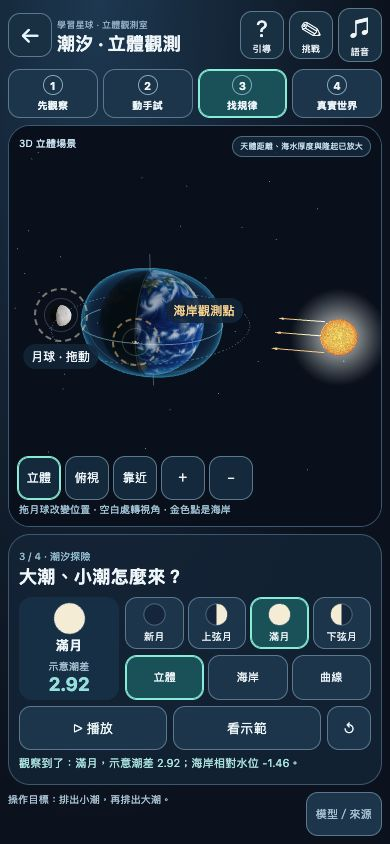
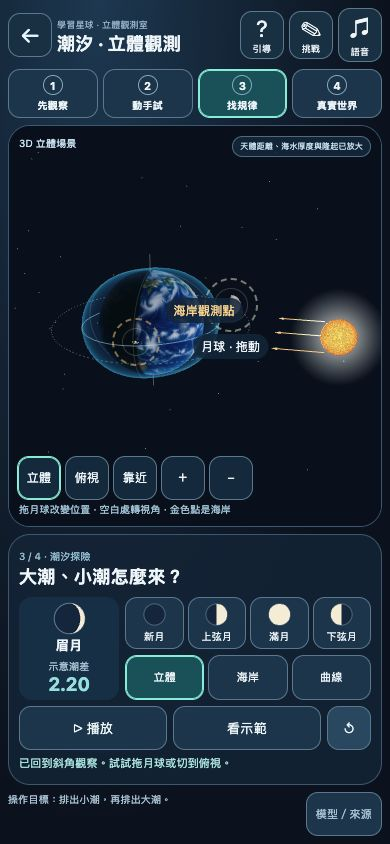
fix: fit square tablet scene and record all default camera views

diff --git a/src/tides3d/stage.ts b/src/tides3d/stage.ts
@@ -53,7 +53,7 @@ this.label('海水殼 · 隆起已放大',()=>new T.Vector3(-1.6,2.4,-1.8));
   for(let k=0;k<3;k++){const points=[];for(let j=0;j<180;j++){const t=j/180*Math.PI*2;let x=Math.cos(t),y=0,z=Math.sin(t);if(k===1){y=z;z=0;}if(k===2){y=x;x=0;}const r=shellRadius(x,y,z,a)+.005;points.push(new T.Vector3(x*r,y*r,z*r));}const line=this.guides.getObjectByName('water-guide-'+k) as T.Line;line.geometry.dispose();line.geometry=new T.BufferGeometry().setFromPoints(points);line.visible=!this.moonMode;}
   this.marker.position.set(Math.cos(radians(observer))*2.035,.03,-Math.sin(radians(observer))*2.035);this.markerButton.hidden=this.moonMode;const front=this.marker.position.dot(this.camera.position.clone().sub(this.marker.position))>0;this.markerButton.querySelector('.handle-label')!.textContent=front?'海岸觀測點':'背側海岸觀測點';this.moonButton.setAttribute('aria-valuenow',String(Math.round(wrap(a))%360));this.markerButton.setAttribute('aria-valuenow',String(Math.round(wrap(observer))%360));this.wake();
  }
- setView(view:View){this.camera.up.set(0,view==='top'?0:1,view==='top'?-1:0);this.orbit.target.set(view==='coast'?0:this.host.clientWidth<550?1.7:1.05,0,0);if(view==='space'&&this.host.clientWidth<550){this.orbit.target.x=1.7;this.camera.position.set(6,8,20);}else this.camera.position.copy(view==='top'?new T.Vector3(this.host.clientWidth<550?1.7:1.05,this.host.clientWidth<550?23:17,.001):view==='coast'?new T.Vector3(0,3.2,8):new T.Vector3(5.4,6.4,12.8));this.orbit.update();this.movingUntil=performance.now()+450;this.wake();}
+ setView(view:View){this.camera.up.set(0,view==='top'?0:1,view==='top'?-1:0);this.orbit.target.set(view==='coast'?0:this.host.clientWidth<550?1.7:1.05,0,0);if(view==='space'&&(this.host.clientWidth<550||this.host.clientWidth/this.host.clientHeight<1.5)){this.orbit.target.x=1.7;this.camera.position.set(6,8,20);}else this.camera.position.copy(view==='top'?new T.Vector3(this.host.clientWidth<550?1.7:1.05,this.host.clientWidth<550?23:17,.001):view==='coast'?new T.Vector3(0,3.2,8):new T.Vector3(5.4,6.4,12.8));this.orbit.update();this.movingUntil=performance.now()+450;this.wake();}
  zoom(factor:number){this.camera.position.sub(this.orbit.target).multiplyScalar(factor).add(this.orbit.target);this.camera.position.clampLength(7,25);this.orbit.update();this.wake();}
  private resize(){const w=this.host.clientWidth,h=this.host.clientHeight;if(!w||!h)return;this.renderer.setSize(w,h,false);this.camera.aspect=w/h;this.camera.updateProjectionMatrix();this.wake();}
  playing=false;

diff --git a/modules/tides3d/tides3d.js b/modules/tides3d/tides3d.js
@@ -21086,7 +21086,7 @@ class Ya {
     this.markerButton.querySelector(".handle-label").textContent = s ? "海岸觀測點" : "背側海岸觀測點", this.moonButton.setAttribute("aria-valuenow", String(Math.round(Ue(t)) % 360)), this.markerButton.setAttribute("aria-valuenow", String(Math.round(Ue(e)) % 360)), this.wake();
   }
   setView(t) {
-    this.camera.up.set(0, t === "top" ? 0 : 1, t === "top" ? -1 : 0), this.orbit.target.set(t === "coast" ? 0 : this.host.clientWidth < 550 ? 1.7 : 1.05, 0, 0), t === "space" && this.host.clientWidth < 550 ? (this.orbit.target.x = 1.7, this.camera.position.set(6, 8, 20)) : this.camera.position.copy(t === "top" ? new L(this.host.clientWidth < 550 ? 1.7 : 1.05, this.host.clientWidth < 550 ? 23 : 17, 1e-3) : t === "coast" ? new L(0, 3.2, 8) : new L(5.4, 6.4, 12.8)), this.orbit.update(), this.movingUntil = performance.now() + 450, this.wake();
+    this.camera.up.set(0, t === "top" ? 0 : 1, t === "top" ? -1 : 0), this.orbit.target.set(t === "coast" ? 0 : this.host.clientWidth < 550 ? 1.7 : 1.05, 0, 0), t === "space" && (this.host.clientWidth < 550 || this.host.clientWidth / this.host.clientHeight < 1.5) ? (this.orbit.target.x = 1.7, this.camera.position.set(6, 8, 20)) : this.camera.position.copy(t === "top" ? new L(this.host.clientWidth < 550 ? 1.7 : 1.05, this.host.clientWidth < 550 ? 23 : 17, 1e-3) : t === "coast" ? new L(0, 3.2, 8) : new L(5.4, 6.4, 12.8)), this.orbit.update(), this.movingUntil = performance.now() + 450, this.wake();
   }
   zoom(t) {
     this.camera.position.sub(this.orbit.target).multiplyScalar(t).add(this.orbit.target), this.camera.position.clampLength(7, 25), this.orbit.update(), this.wake();

diff --git a/qa/tides-3d/MANUAL-QA.md b/qa/tides-3d/MANUAL-QA.md
@@ -7,7 +7,7 @@
 - b288927 的 CI 地月啟動逾時：地月模式移除海岸按鈕後，仍對不存在的元素綁事件。改為條件綁定；後續 CI 已通過地月啟動。
 - 81ffd2e 的 screenshot test：`[data-aux=shore]` 同時選到 body 和按鈕。產品與驗證均限縮 button，避免修改 body 的 aria-current/aria-pressed。
 - 統一北向觀看角度、月球負 Z 方位與殼方向；俯視陽光在右側。
-- 手機俯視與預設立體相機退遠、平移構圖，太陽不再被裁掉；下弦月命中區避開相機按鈕。地月入口滿月畫面重拍，完整日地月均可見。
+- 手機俯視與預設立體相機退遠、平移構圖，太陽不再被裁掉；下弦月命中區避開相機按鈕。地月入口滿月畫面重拍，完整日地月均可見。1024×768較方的場景亦採退遠構圖；六尺寸預設立體鏡頭都重拍 `*-space-full.png`，太陽投影與月球命中區納入自動回歸。
 - 月球被地球遮住時，提示改成「月球在地球後方」並以引線上移；海岸與海水殼標籤重新錯開。
 - 截圖以 `data-render-angle` 作繪製完成信號，不把更新過的文字配上前一幀場景。
 - 地月與潮汐間往返保存月球、觀測點、步驟；頁面釋放 WebGL，恢復歷史頁時重建。手機第4步內部連結使用同頁，避免沿用外部資料連結的新分頁行為。
